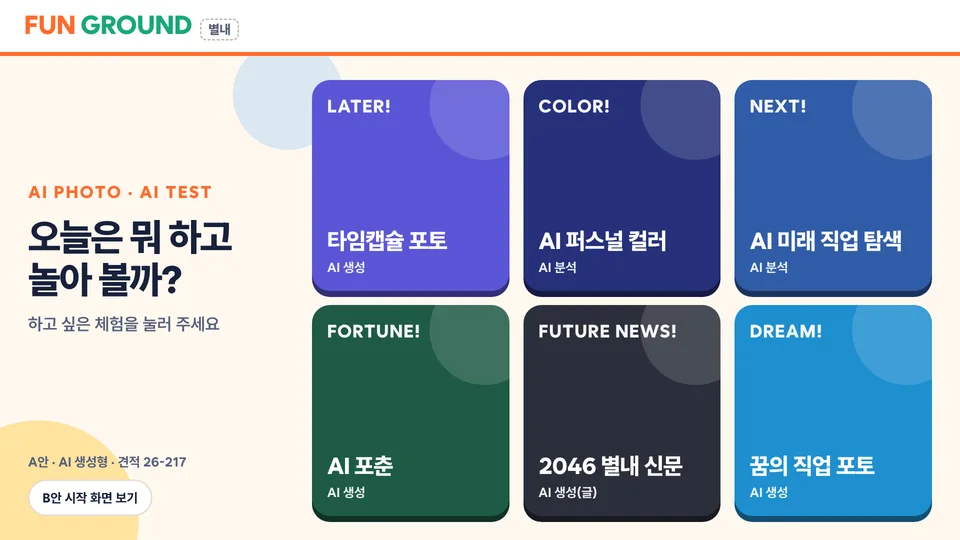
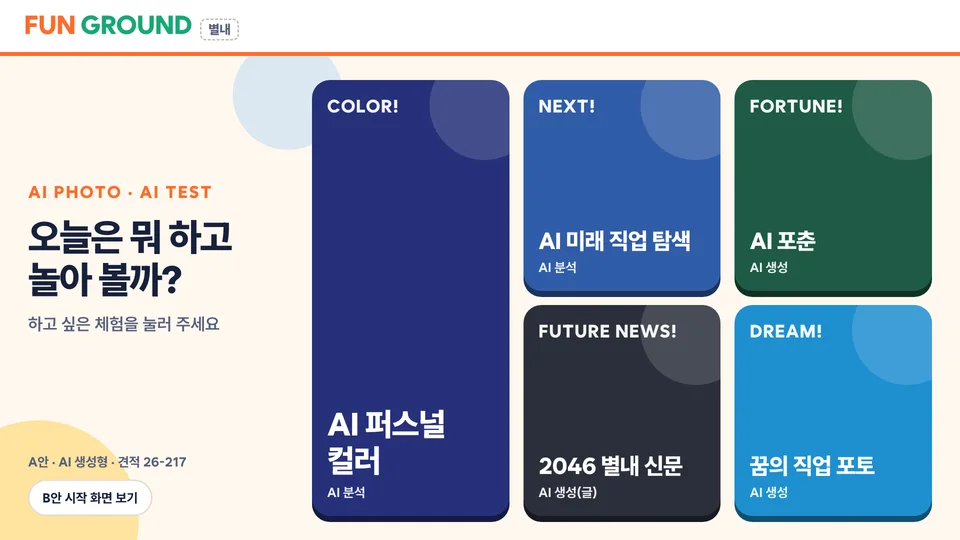
[FEAT] 펀그라운드 데모 — LATER! 빼고 FUTURE NEWS! · DREAM! 을 정식으로
- A안: COLOR! · NEXT! · FORTUNE! · FUTURE NEWS! · DREAM!(5), B안: COLOR! · NEXT! · FORTUNE! · FUTURE NEWS!(4)
- LATER!(A안 이미지 생성 1장 약 $0.045)는 목록에서 뺐다 — 코드 · 화면은 주소로만 열린다
- 카드 메모에서 모델 이름 · 1회 비용을 뺐다(고객이 보는 화면), 랜딩 안내 · 문서 · 시작 화면 그림

diff --git a/src/lib/funground/demo.ts b/src/lib/funground/demo.ts
@@ -60,61 +60,55 @@ export const PLAN_INFO: Record<FungroundPlan, { title: string; quote: string; sh
 const shot = (key: string) => `/assets/booth-demo/funground/${key}.webp`
 
 export const FUNGROUND_PROGRAMS: FungroundProgram[] = [
-  // 2026-11-14 사용자 지시: A안 · B안 모두 같은 네 프로그램(LATER! · COLOR! · NEXT! · FORTUNE!)만 — 나머지(IDOL! · ERA! · GRAD! · WITH! · QUEST! · MVP! · THEME! · MV!)는 이 데모에서 뺐다.
+  // 2026-11-14 사용자 지시: A안 COLOR! · NEXT! · FORTUNE! · FUTURE NEWS! · DREAM!, B안 COLOR! · NEXT! · FORTUNE! · FUTURE NEWS!.
+  // LATER!(타임캡슐 — A안 이미지 생성 1장 약 $0.045)는 같은 날 더 싼 FUTURE NEWS! · DREAM! 으로 바꾸며 뺐다(코드 · 화면은 주소로만 열린다).
+  // 그 전에 뺀 프로그램: IDOL! · ERA! · GRAD! · WITH! · QUEST! · MVP! · THEME! · MV!
   // 모든 프로그램은 사진을 찍고, 마지막에 「인쇄하기」(노트북 · 폰: 인쇄 미리보기 + QR)로 결과물을 받는다.
   // ───────── A안 — AI 생성형(견적 26-217) ─────────
+
   {
-    key: 'a-later', plan: 'a', no: 1, tag: 'LATER!', name: '타임캡슐 포토', desc: '오늘의 나를 찍으면 AI가 10년 · 20년 뒤의 나를 상상해 그려 4×6 사진으로 줘요. 재미로 보는 상상 사진이에요.', phase: 1, build: 'existing', badges: ['AI 생성', '4×6 인화'], color: '#5b55d6', screen: shot('a-later'),
-    targets: [{ kind: 'booth', id: 'timecapsule' }],
-  },
-  {
-    key: 'a-color', plan: 'a', no: 2, tag: 'COLOR!', name: 'AI 퍼스널 컬러', desc: '사진 한 장으로 AI가 8유형 중 어울리는 색을 찾아 주고, 옷 색을 바꿔 대어 봐요.', phase: 1, build: 'existing', badges: ['AI 분석', '결과 카드'], color: '#26307a', screen: shot('a-color'),
+    key: 'a-color', plan: 'a', no: 1, tag: 'COLOR!', name: 'AI 퍼스널 컬러', desc: '사진 한 장으로 AI가 8유형 중 어울리는 색을 찾아 주고, 옷 색을 바꿔 대어 봐요.', phase: 1, build: 'existing', badges: ['AI 분석', '결과 카드'], color: '#26307a', screen: shot('a-color'),
     // 설치 기기 화면이 가로라 키오스크 세로 화면 대신 같은 프로그램의 노트북 가로판(/kiosk/pc)을 연다
     targets: [{ kind: 'pc', id: 'color' }],
   },
   {
-    key: 'a-next', plan: 'a', no: 3, tag: 'NEXT!', name: 'AI 미래 직업 탐색', desc: '질문 여덟 개와 사진 한 장을 AI가 함께 보고 탐색해 볼 직업과 가이드를 만들어 줘요.', phase: 1, build: 'existing', badges: ['AI 분석', '결과 카드'], color: '#315ca8', screen: shot('a-next'),
+    key: 'a-next', plan: 'a', no: 2, tag: 'NEXT!', name: 'AI 미래 직업 탐색', desc: '질문 여덟 개와 사진 한 장을 AI가 함께 보고 탐색해 볼 직업과 가이드를 만들어 줘요.', phase: 1, build: 'existing', badges: ['AI 분석', '결과 카드'], color: '#315ca8', screen: shot('a-next'),
     targets: [{ kind: 'pc', id: 'career' }],
   },
   {
-    key: 'a-fortune', plan: 'a', no: 4, tag: 'FORTUNE!', name: 'AI 포춘', desc: '사진 한 장과 생년월일로 사주를 계산하고, AI가 공부 · 친구 · 진로 · 꿈 이야기로 풀어 내 사진이 든 카드로 줘요. 재미로 보는 풀이예요.', phase: 1, build: 'adapted', badges: ['AI 생성', '4×6 인화', '재미로 보는 풀이'], color: '#1f5a45', screen: shot('a-fortune'),
+    key: 'a-fortune', plan: 'a', no: 3, tag: 'FORTUNE!', name: 'AI 포춘', desc: '사진 한 장과 생년월일로 사주를 계산하고, AI가 공부 · 친구 · 진로 · 꿈 이야기로 풀어 내 사진이 든 카드로 줘요. 재미로 보는 풀이예요.', phase: 1, build: 'adapted', badges: ['AI 생성', '4×6 인화', '재미로 보는 풀이'], color: '#1f5a45', screen: shot('a-fortune'),
     targets: [{ kind: 'screen', id: 'saju', query: { engine: 'ai' } }],
     note: '사주(SAJU!)에서 향 처방을 빼고 공부 · 친구 · 진로 · 꿈 이야기로',
   },
-  // ───── 2026-11-14 새 프로그램(사용자 지시: FUTURE NEWS! · DREAM! 을 데모에 더해 비교) — LATER! 보다 1회 비용이 낮다 ─────
   {
-    key: 'a-news', plan: 'a', no: 5, tag: 'FUTURE NEWS!', name: '2046 별내 신문', desc: '사진 한 장과 질문 세 개로, AI 기자가 2046년 신문 1면에 나의 미래 이야기를 써 줘요. 얼굴은 진짜 나 그대로예요.', phase: 2, build: 'new', badges: ['AI 생성(글)', '4×6 인화', '재미로 보는 상상'], color: '#2b2f3a', screen: shot('a-news'),
+    key: 'a-news', plan: 'a', no: 4, tag: 'FUTURE NEWS!', name: '2046 별내 신문', desc: '사진 한 장과 질문 세 개로, AI 기자가 2046년 신문 1면에 나의 미래 이야기를 써 줘요. 얼굴은 진짜 나 그대로예요.', phase: 2, build: 'new', badges: ['AI 생성(글)', '4×6 인화', '재미로 보는 상상'], color: '#2b2f3a', screen: shot('a-news'),
     targets: [{ kind: 'screen', id: 'news', query: { engine: 'ai' } }],
-    note: '사진은 기기 안에서 오려 신문에 · AI는 기사 글만(약 $0.002)',
+    note: '사진은 기기 안에서 오려 신문에 · AI는 기사 글만 써요',
   },
   {
-    key: 'a-dream', plan: 'a', no: 6, tag: 'DREAM!', name: '꿈의 직업 포토', desc: '천문학자 · 셰프 · 수의사 · 과학자 · 소방관 · 게임 개발자 — 얼굴은 그대로, 꿈의 직업 옷과 일터로 바꿔 4×6 사진으로 줘요.', phase: 2, build: 'new', badges: ['AI 생성', '1~4명', '4×6 인화'], color: '#1f8fd0', screen: shot('a-dream'),
+    key: 'a-dream', plan: 'a', no: 5, tag: 'DREAM!', name: '꿈의 직업 포토', desc: '천문학자 · 셰프 · 수의사 · 과학자 · 소방관 · 게임 개발자 — 얼굴은 그대로, 꿈의 직업 옷과 일터로 바꿔 4×6 사진으로 줘요.', phase: 2, build: 'new', badges: ['AI 생성', '1~4명', '4×6 인화'], color: '#1f8fd0', screen: shot('a-dream'),
     targets: [{ kind: 'booth', id: 'dream' }],
-    note: 'Seedream — 옷 · 배경만 바꿔 얼굴이 잘 남는다(1장 $0.018)',
+    note: '옷 · 일터만 바꿔 얼굴이 그대로 남아요',
   },
   // ───────── B안 — 기기 안 처리형(견적 26-218 · 외부 AI API 0) ─────────
+
   {
-    key: 'b-later', plan: 'b', no: 1, tag: 'LATER!', name: '타임캡슐 포토', desc: '오늘의 나를 찍어 미래 배경에 합성하고, 미래의 나에게 한마디와 열어 볼 날을 적은 4×6 사진으로 줘요. 얼굴은 바꾸지 않아요.', phase: 2, build: 'new', badges: ['AI 인물 인식', '1~4명', '4×6 인화'], color: '#5b55d6', screen: shot('b-later'),
-    targets: [{ kind: 'screen', id: 'later' }],
-    note: 'AI로 나이를 바꾸는 대신 기기 안 사람 분리 합성 · 미래의 나에게 한마디',
-  },
-  {
-    key: 'b-color', plan: 'b', no: 2, tag: 'COLOR!', name: '퍼스널 컬러', desc: '기기 안에서 피부 · 머리카락 색을 재어 8유형 중 어울리는 색을 알려 줘요. 판정은 기기 안에서 해요.', phase: 2, build: 'adapted', badges: ['AI 인식 기반', '기기 안 판정', '4×6 인화'], color: '#26307a', screen: shot('b-color'),
+    key: 'b-color', plan: 'b', no: 1, tag: 'COLOR!', name: '퍼스널 컬러', desc: '기기 안에서 피부 · 머리카락 색을 재어 8유형 중 어울리는 색을 알려 줘요. 판정은 기기 안에서 해요.', phase: 2, build: 'adapted', badges: ['AI 인식 기반', '기기 안 판정', '4×6 인화'], color: '#26307a', screen: shot('b-color'),
     targets: [{ kind: 'screen', id: 'color' }],
     note: '판정을 기기 안 숫자 규칙으로 · 결과 문장은 미리 써 둠',
   },
   {
-    key: 'b-next', plan: 'b', no: 3, tag: 'NEXT!', name: '미래 직업 탐색', desc: '사진 한 장을 찍고 질문 여덟 개로 관심 축을 찾아, 탐색해 볼 직업 세 가지를 내 사진이 든 카드로 보여 줘요.', phase: 1, build: 'adapted', badges: ['체험 프로그램', '질문 8개', '4×6 인화'], color: '#315ca8', screen: shot('b-next'),
+    key: 'b-next', plan: 'b', no: 2, tag: 'NEXT!', name: '미래 직업 탐색', desc: '사진 한 장을 찍고 질문 여덟 개로 관심 축을 찾아, 탐색해 볼 직업 세 가지를 내 사진이 든 카드로 보여 줘요.', phase: 1, build: 'adapted', badges: ['체험 프로그램', '질문 8개', '4×6 인화'], color: '#315ca8', screen: shot('b-next'),
     targets: [{ kind: 'screen', id: 'career' }],
     note: '관상 분석 대신 결과 카드용 사진 · AI 풀이 대신 미리 쓴 축 조합 풀이',
   },
   {
-    key: 'b-fortune', plan: 'b', no: 4, tag: 'FORTUNE!', name: '포춘', desc: '사진 한 장과 생년월일로 만세력을 계산하고, 미리 써 둔 풀이 문장에서 골라 내 사진이 든 카드로 보여 줘요. 재미로 보는 풀이예요.', phase: 1, build: 'adapted', badges: ['체험 프로그램', '기기 안 계산', '4×6 인화'], color: '#1f5a45', screen: shot('b-fortune'),
+    key: 'b-fortune', plan: 'b', no: 3, tag: 'FORTUNE!', name: '포춘', desc: '사진 한 장과 생년월일로 만세력을 계산하고, 미리 써 둔 풀이 문장에서 골라 내 사진이 든 카드로 보여 줘요. 재미로 보는 풀이예요.', phase: 1, build: 'adapted', badges: ['체험 프로그램', '기기 안 계산', '4×6 인화'], color: '#1f5a45', screen: shot('b-fortune'),
     targets: [{ kind: 'screen', id: 'saju', query: { engine: 'local' } }],
     note: '만세력 그대로 · 풀이는 미리 쓴 문장에서',
   },
   {
-    key: 'b-news', plan: 'b', no: 5, tag: 'FUTURE NEWS!', name: '2046 별내 신문', desc: '사진 한 장과 질문 세 개로, 2046년 신문 1면에 나의 미래 이야기가 실려요. 기사는 미리 써 둔 틀에서 골라요.', phase: 2, build: 'new', badges: ['AI 인물 인식', '4×6 인화', '재미로 보는 상상'], color: '#2b2f3a', screen: shot('b-news'),
+    key: 'b-news', plan: 'b', no: 4, tag: 'FUTURE NEWS!', name: '2046 별내 신문', desc: '사진 한 장과 질문 세 개로, 2046년 신문 1면에 나의 미래 이야기가 실려요. 기사는 미리 써 둔 틀에서 골라요.', phase: 2, build: 'new', badges: ['AI 인물 인식', '4×6 인화', '재미로 보는 상상'], color: '#2b2f3a', screen: shot('b-news'),
     targets: [{ kind: 'screen', id: 'news', query: { engine: 'local' } }],
     note: '사진은 기기 안에서 오려 신문에 · 기사는 미리 쓴 틀',
   },

diff --git a/src/app/booth-demo/funground/FungroundLanding.tsx b/src/app/booth-demo/funground/FungroundLanding.tsx
@@ -22,7 +22,7 @@ const NOTES = [
   'A안: 사진은 AI 사진을 만드는 동안만 AI 서비스로 보내고, 결과 사진과 원본을 데모 서버에 남기지 않습니다.',
   'B안: 외부 AI 서비스를 부르지 않습니다. 사진은 브라우저(설치 때는 기기) 안에서 처리합니다.',
   '모든 프로그램은 사진을 찍고, 마지막에 「인쇄하기」로 결과물을 받습니다. 노트북 · 폰에서는 인쇄 미리보기와 QR이 뜨고, QR로 받기를 누른 결과만 24시간 보관한 뒤 지웁니다(설치 기기에서는 프린터로 바로 나옵니다).',
-  '타임캡슐 · 포춘 · 미래 직업은 재미로 보는 상상 · 풀이입니다. 퍼스널 컬러는 점수 없이 「어울리는 색」만 알려 드립니다.',
+  '미래 신문 · 꿈의 직업 사진 · 포춘 · 미래 직업은 재미로 보는 상상 · 풀이입니다. 퍼스널 컬러는 점수 없이 「어울리는 색」만 알려 드립니다.',
     '펀그라운드 색 · 로고 자리는 임시입니다. 실제 로고를 받으면 바꿉니다.',
   '데모 화면에는 DEMO 워터마크가 표시됩니다. 실제 기기와 인화물에는 표시되지 않습니다.',
 ]
@@ -134,7 +134,7 @@ export function FungroundLanding({ cleanKey, cleanRejected = false }: { cleanKey
         <section className="fl-plan-section" aria-labelledby="fl-plan-title">
           <div className="fl-group-head">
             <h2 id="fl-plan-title">{PLAN_INFO[plan].title}<span>{PLAN_INFO[plan].quote}</span></h2>
-            <p>{PLAN_INFO[plan].line}{plan === 'b' ? ' LATER! · COLOR! · NEXT! · FORTUNE! 을 기기 안에서 — 타임캡슐 · 퍼스널 컬러 · 미래 신문은 AI 인식(기기 안)을 쓰고, 미래 직업 · 포춘은 체험 프로그램입니다. 새로 만든 FUTURE NEWS! 는 비교용으로 함께 넣었습니다.' : ' LATER! · COLOR! · NEXT! · FORTUNE! 을 AI로 — 미래의 나를 그리고, 어울리는 색 · 직업 · 운세를 AI가 풀어 줍니다. 새로 만든 FUTURE NEWS! · DREAM! 은 비교용으로 함께 넣었습니다(1회 비용이 LATER! 보다 낮습니다).'}</p>
+            <p>{PLAN_INFO[plan].line}{plan === 'b' ? ' COLOR! · NEXT! · FORTUNE! · FUTURE NEWS! 을 기기 안에서 — 퍼스널 컬러 · 미래 신문은 AI 인식(기기 안)을 쓰고, 미래 직업 · 포춘은 체험 프로그램입니다.' : ' COLOR! · NEXT! · FORTUNE! · FUTURE NEWS! · DREAM! 을 AI로 — 어울리는 색 · 직업 · 운세를 AI가 풀고, 미래 신문 기사를 쓰고, 꿈의 직업 사진을 만들어 줍니다.'}</p>
           </div>
           {[{ phase: 1 as const, list: phase1 }, { phase: 2 as const, list: phase2 }].filter((g) => g.list.length).map((g) => (
             <div key={g.phase} className="fl-phase">

diff --git a/docs/funground-demo.md b/docs/funground-demo.md
@@ -16,19 +16,22 @@
 - 카메라 권한을 처음 한 번 묻는다(시작 화면 안에서 연 프로그램도 같은 사이트라 한 번). 거절하면 화면마다 「주소창에서 카메라(뮤직비디오는 카메라 · 마이크) 권한을 허용」 안내와 다시 연결 단추.
 - 펀그라운드에서 연 부스 프로그램은 웹캠만 쓴다 — DSLR 브리지(127.0.0.1:9120)를 찾지 않는다(크롬의 로컬 네트워크 권한 창 · 대기 없음, `fungroundWebcamOnly`). 설치 기기는 주소에 `camera=dslr`.
 
-## 프로그램 (2026-11-14 사용자 지시: 두 안 모두 LATER! · COLOR! · NEXT! · FORTUNE! 넷만, 나머지는 데모에서 뺌)
-| 안 | 프로그램 | 단계 | 구분 | 여는 곳 |
-|---|---|---|---|---|
-| A | LATER! 타임캡슐 포토 — AI가 10 · 20년 뒤의 나 | 1 | 기존 | `/booth?mode=timecapsule&site=funground` (Gemini 3 Pro Image 먼저) |
-| A | COLOR! AI 퍼스널 컬러 | 1 | 기존 | `/kiosk/pc/color` |
-| A | NEXT! AI 미래 직업 탐색(관상 사진 포함) | 1 | 기존 | `/kiosk/pc/career` |
-| A | FORTUNE! AI 포춘 | 1 | 고쳐 씀 | `/booth-demo/funground/saju?engine=ai` |
-| B | LATER! 타임캡슐 포토 — 기기 안 사람 분리로 미래 배경 + 미래의 나에게 한마디 · 열어 볼 날 | 2 | 새로 | `/booth-demo/funground/later` |
-| B | COLOR! 퍼스널 컬러(기기 안 판정) | 2 | 고쳐 씀 | `/booth-demo/funground/color` |
-| B | NEXT! 미래 직업 탐색(질문 8 + 결과 카드용 사진) | 1 | 고쳐 씀 | `/booth-demo/funground/career` |
-| B | FORTUNE! 포춘(만세력 + 미리 쓴 문장) | 1 | 고쳐 씀 | `/booth-demo/funground/saju?engine=local` |
+## 프로그램 (2026-11-14 최종 — 사용자 지시)
+| 안 | 프로그램 | 단계 | 구분 | 여는 곳 | 1회 비용 |
+|---|---|---|---|---|---|
+| A | COLOR! AI 퍼스널 컬러 | 1 | 기존 | `/kiosk/pc/color` | 약 $0.0036 |
+| A | NEXT! AI 미래 직업 탐색(관상 사진 포함) | 1 | 기존 | `/kiosk/pc/career` | 약 $0.0017 |
+| A | FORTUNE! AI 포춘 | 1 | 고쳐 씀 | `/booth-demo/funground/saju?engine=ai` | 약 $0.0022 |
+| A | FUTURE NEWS! 2046 별내 신문 | 2 | 새로 | `/booth-demo/funground/news?engine=ai` | 약 $0.001 |
+| A | DREAM! 꿈의 직업 포토 | 2 | 새로 | `/booth?mode=dream&site=funground` | $0.018 |
+| B | COLOR! 퍼스널 컬러(기기 안 판정) | 2 | 고쳐 씀 | `/booth-demo/funground/color` | $0 |
+| B | NEXT! 미래 직업 탐색(질문 8 + 결과 카드용 사진) | 1 | 고쳐 씀 | `/booth-demo/funground/career` | $0 |
+| B | FORTUNE! 포춘(만세력 + 미리 쓴 문장) | 1 | 고쳐 씀 | `/booth-demo/funground/saju?engine=local` | $0 |
+| B | FUTURE NEWS! 2046 별내 신문(미리 쓴 기사) | 2 | 새로 | `/booth-demo/funground/news?engine=local` | $0 |
 
-**새 프로그램(2026-11-14, LATER! 보다 싼 대안 — 사용자 지시로 데모에 더해 비교)**
+LATER! 타임캡슐(A안 GPT Image 2.6 Sunburst 1장 약 $0.045 · B안 기기 안 합성)은 같은 날 더 싼 FUTURE NEWS! · DREAM! 으로 바꾸며 데모 목록에서 뺐다 — 코드 · 화면은 남아 주소로만 열린다(`/booth?mode=timecapsule&site=funground`, `/booth-demo/funground/later`).
+
+**새 프로그램 메모(2026-11-14, LATER! 보다 싼 대안으로 만들어 비교한 뒤 채택)**
 | 안 | 프로그램 | 단계 | 구분 | 여는 곳 | 1회 비용 |
 |---|---|---|---|---|---|
 | A | FUTURE NEWS! 2046 별내 신문 — 사진(기기 안 오리기) + 질문 3 → AI 기자가 1면 기사 | 2 | 새로 | `/booth-demo/funground/news?engine=ai` | 글 1회 약 $0.002 |
